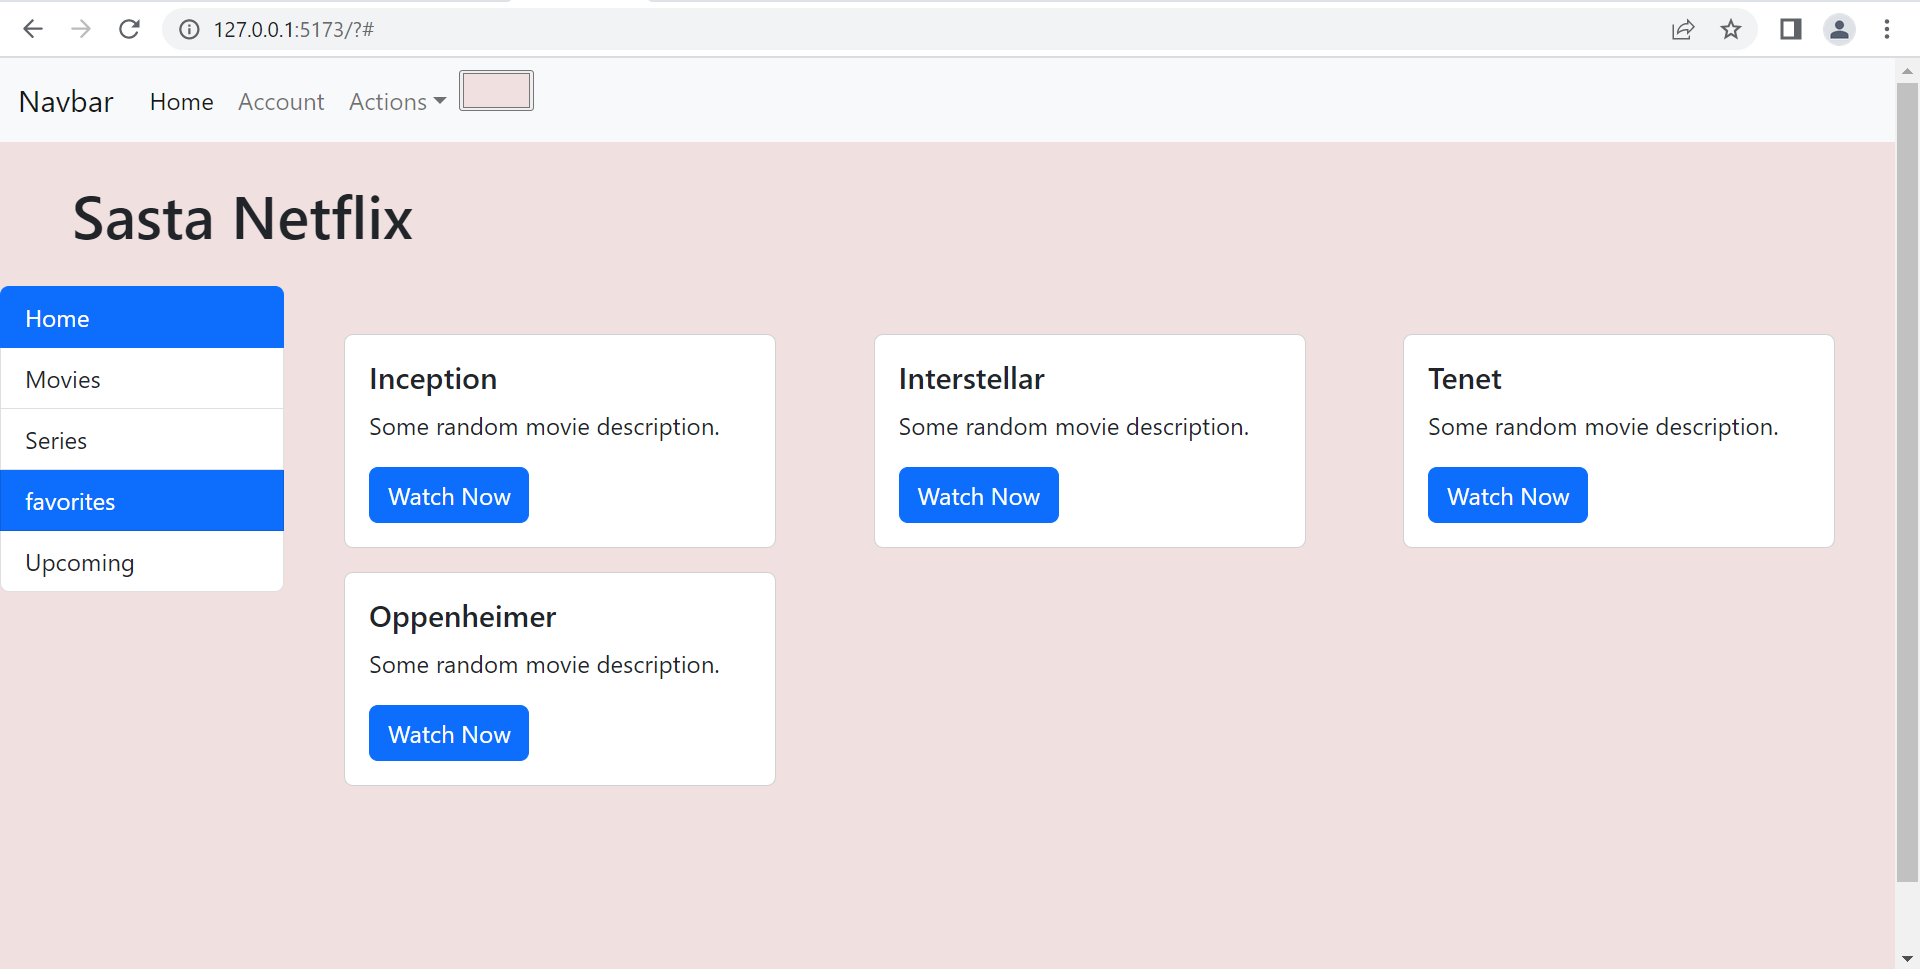
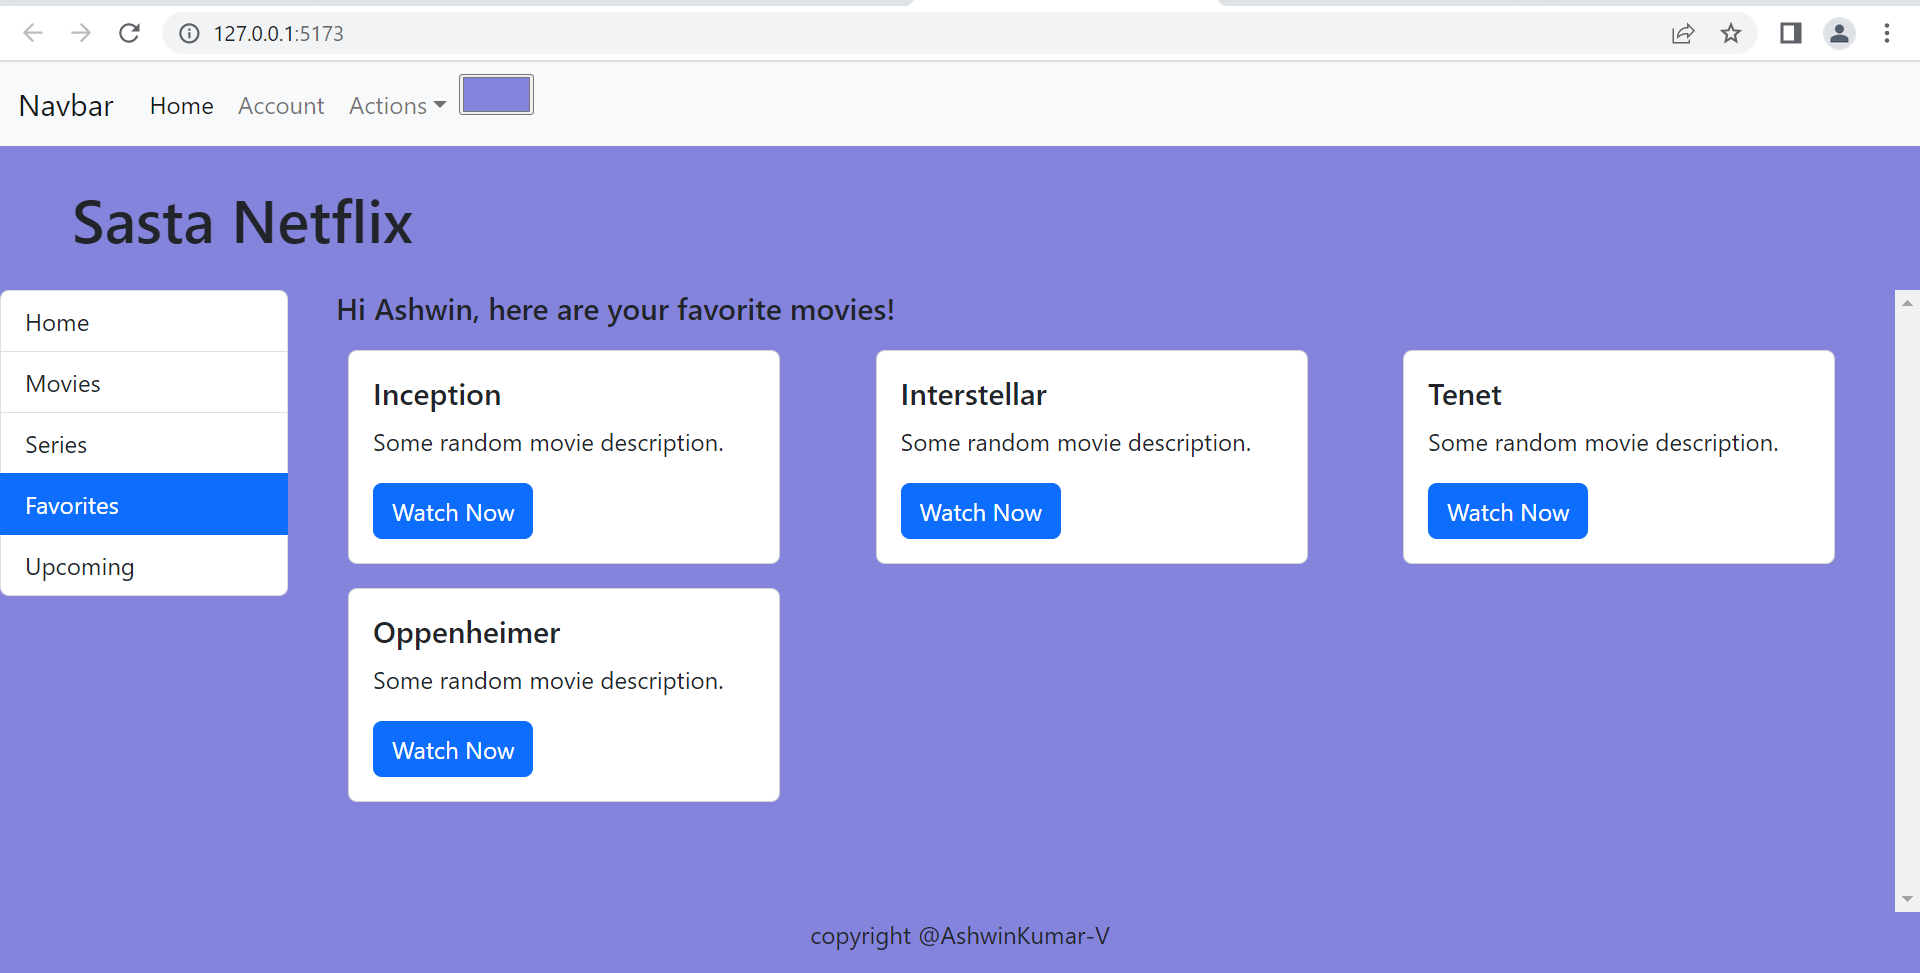
Props added to Content

diff --git a/ReactProject-1/src/components/Content.tsx b/ReactProject-1/src/components/Content.tsx
@@ -1,8 +1,13 @@
 import { MouseEvent } from "react"
 
-function Content() {
+interface Props {
+  name: string,
+  favoriteMovies: Array<string>
+}
+
+function Content(props: Props) {
   const default_msg = "No new movies."
-  const movies = ['Inception', 'Interstellar', 'Tenet', 'Oppenheimer']
+  const movies = props.favoriteMovies
 
   const handleEvent = (event: MouseEvent) => {
     console.log(event.type)
@@ -10,6 +15,7 @@ function Content() {
 
   return (
     <div className="content">
+      <h5>Hi {props.name}, here are your favorite movies!</h5>
       {movies.length == 0 ? <p>{default_msg}</p> : null}
       <div className="flex_row flex-wrap">
         {movies.map((movie) => (

diff --git a/ReactProject-1/src/App.css b/ReactProject-1/src/App.css
@@ -43,16 +43,18 @@
 
 .header {
   margin: 1.5rem 3rem;
+  box-sizing: border-box;
 }
 
 .menu_content_wrapper {
-  height: 74vh;
+  height: 68vh;
 }
 
 .content {
   width: 85vw;
-  padding: 1.5rem 2rem;
+  padding: 0 2rem;
   box-sizing: border-box;
+  overflow-y: scroll;
 }
 
 .menu {
@@ -60,7 +62,7 @@
 }
 
 .footer {
-  margin: 1rem 3rem;
+  margin: 0.2rem 3rem;
   text-align: center;
 }
 

diff --git a/ReactProject-1/src/App.tsx b/ReactProject-1/src/App.tsx
@@ -17,7 +17,7 @@ function App() {
       <Header />
       <div className='d-flex flex-row justify-content-between menu_content_wrapper'>
         <Menu />
-        <Content />
+        <Content name="Ashwin" favoriteMovies={['Inception', 'Interstellar', 'Tenet', 'Oppenheimer']} />
       </div>
       <Footer />
     </>

diff --git a/ReactProject-1/src/components/Menu.tsx b/ReactProject-1/src/components/Menu.tsx
@@ -1,7 +1,7 @@
 import { useState } from "react";
 
 function Menu() {
-  const menu_items = ['Home', 'Movies', 'Series', 'favorites', 'Upcoming']
+  const menu_items = ['Home', 'Movies', 'Series', 'Favorites', 'Upcoming']
   const [itemSelected, updateSelectedItem] = useState('Home')
 
   return (
